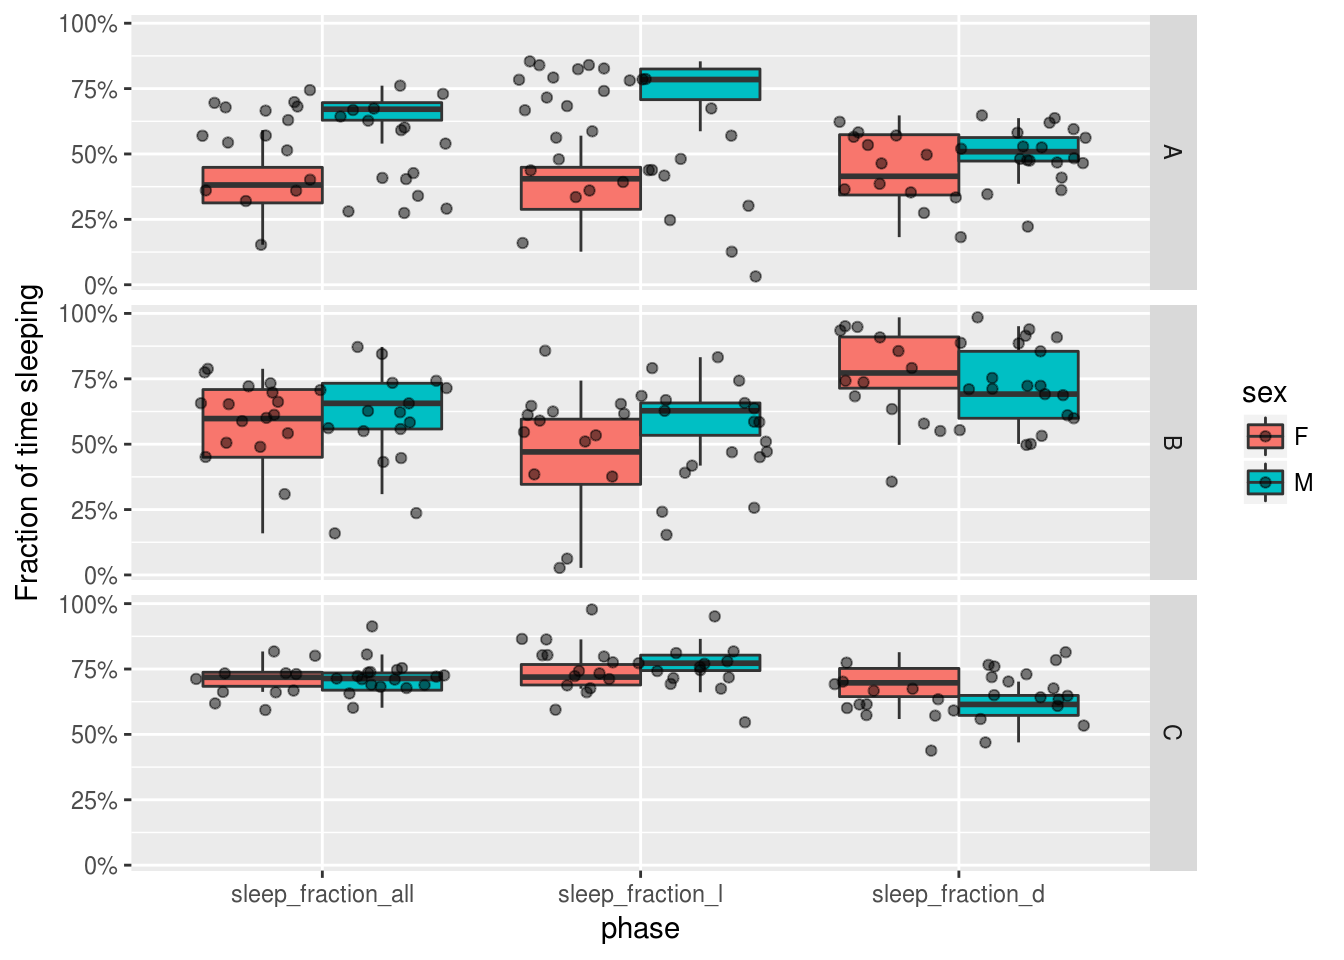
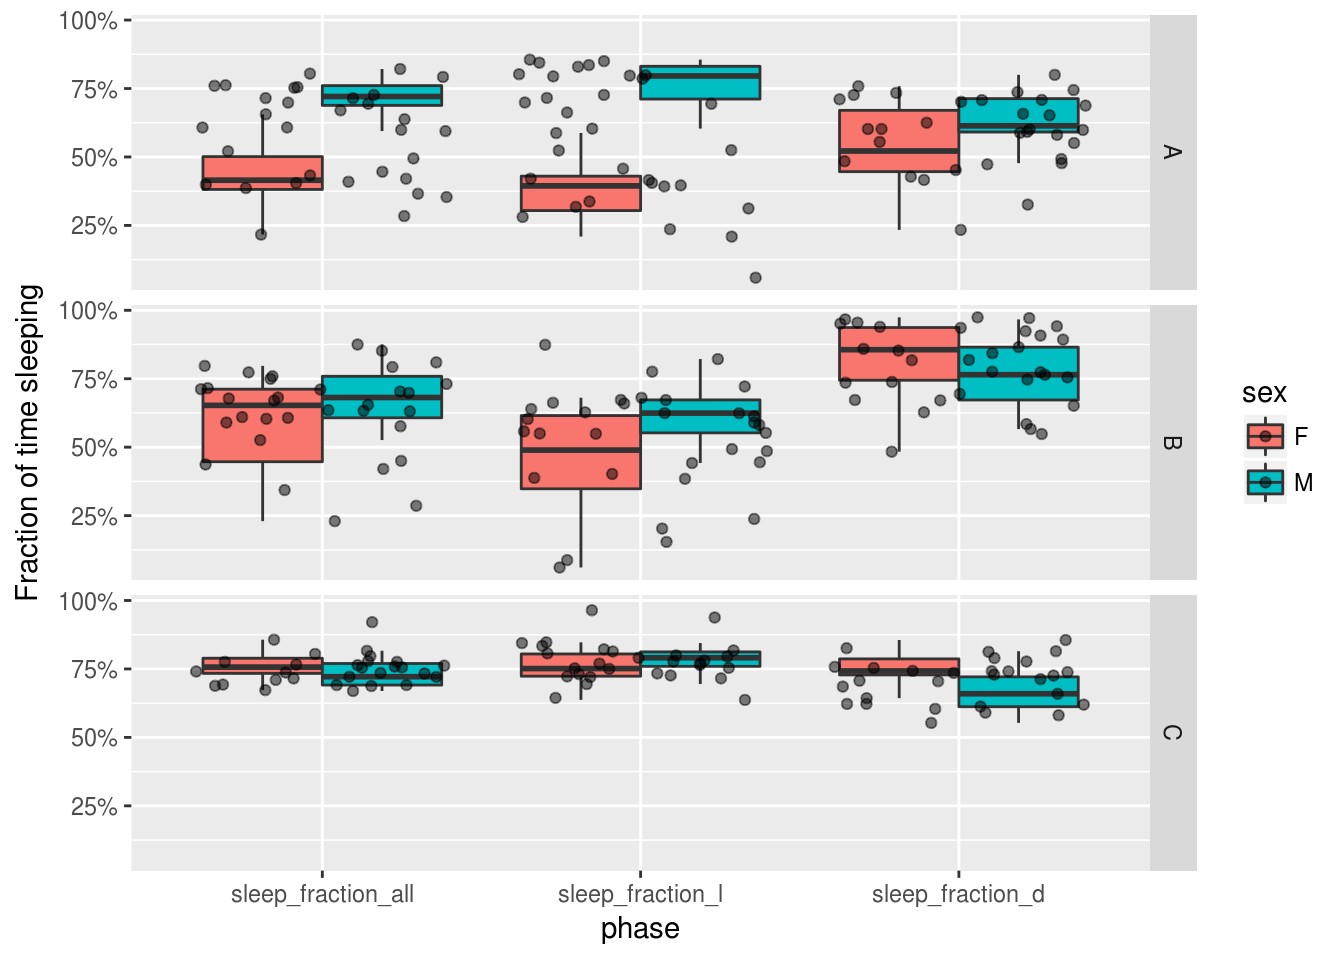
Automatic deployment after 7045d34b0e9099193a25b80bd120778a9fb6d24a [ci skip]

diff --git a/sleepr.html b/sleepr.html
@@ -397,16 +397,17 @@ dt_curated &lt;-<span class="st"> </span>dt_curated[id <span class="op">%in%</sp
 </div>
 <div id="trimming" class="section level3 unnumbered">
 <h3>Trimming</h3>
-<p>Generally, we want to remove point according the experimental time. For instance, we want to remove the begining as animals are acclimatising to their new environment. In general, we could simply do:</p>
-<div class="sourceCode"><pre class="sourceCode r"><code class="sourceCode r">dt_curated &lt;-<span class="st"> </span>dt_curated[t <span class="op">%between%</span><span class="st"> </span><span class="kw">c</span>(<span class="kw">days</span>(<span class="dv">1</span>), <span class="kw">days</span>(<span class="fl">3.5</span>))]
+<p>Generally, we want to remove point according the experimental time. For instance, lets say we would like to keep only the first 60 hours of data (i.e. 2.5 days)</p>
+<div class="sourceCode"><pre class="sourceCode r"><code class="sourceCode r">dt_curated &lt;-<span class="st"> </span>dt_curated[t <span class="op">%between%</span><span class="st"> </span><span class="kw">c</span>(<span class="kw">days</span>(<span class="dv">0</span>), <span class="kw">days</span>(<span class="fl">2.5</span>))]
 <span class="kw">summary</span>(dt_curated)</code></pre></div>
 <pre><code>## behavr table with:
 ##  94  individuals
 ##  8   metavariables
 ##  4   variables
-##  2.19563e+05 measurements
+##  3.38494e+05 measurements
 ##  1   key (id)</code></pre>
-<p>Which means we are only considering data <strong>between</strong> 1 and 3.5 days after the experiment started.</p>
+<p>Which means we are only considering data <strong>between</strong> 0 and 2.5 days.</p>
+<p>The same principle can be used to remove the begining of an experiment. Fon instance when animals are acclimatising to their new environment.</p>
 </div>
 </div>
 <div id="population-plots-1" class="section level2 unnumbered">
@@ -463,17 +464,17 @@ summary_dt</code></pre></div>
 ## 93: 2017-07-01 08:00:00|Monitor64.txt 2017-07-01 08:00:00    2017-07-04
 ## 94: 2017-07-01 08:00:00|Monitor64.txt 2017-07-01 08:00:00    2017-07-04
 ##     sex genotype replicate sleep_fraction
-##  1:   M        A         1      0.6956159
-##  2:   M        A         1      0.6817043
-##  3:   M        A         1      0.7613588
-##  4:   M        A         1      0.6984590
-##  5:   M        A         1      0.7443832
+##  1:   M        A         1      0.7600666
+##  2:   M        A         1      0.7550680
+##  3:   M        A         1      0.8214385
+##  4:   M        A         1      0.7528464
+##  5:   M        A         1      0.8044988
 ## ---                                      
-## 90:   F        C         1      0.7309454
-## 91:   F        C         1      0.5934455
-## 92:   F        C         1      0.7257455
-## 93:   F        C         1      0.7386745
-## 94:   F        C         1      0.9130982</code></pre>
+## 90:   F        C         1      0.7661761
+## 91:   F        C         1      0.6725909
+## 92:   F        C         1      0.7622883
+## 93:   F        C         1      0.7967231
+## 94:   F        C         1      0.9208553</code></pre>
 <p>With <code>rejoin</code>, we have put our summary and metadata together, which is suitable for standars graphics/statictics. For instance, if we are interested in the effect of sleep and genotype on sleep amount, we can make a faceted boxplot, and also add individual points to show all data.</p>
 <div class="sourceCode"><pre class="sourceCode r"><code class="sourceCode r"><span class="kw">ggplot</span>(summary_dt, <span class="kw">aes</span>(<span class="dt">x=</span>sex, <span class="dt">y=</span>sleep_fraction, <span class="dt">fill=</span>sex)) <span class="op">+</span><span class="st"> </span>
 <span class="st">  </span><span class="kw">geom_boxplot</span>(<span class="dt">outlier.colour =</span> <span class="ot">NA</span>) <span class="op">+</span>
@@ -534,29 +535,29 @@ summary_dt</code></pre></div>
 ## 93: 2017-07-01 08:00:00|Monitor64.txt 2017-07-01 08:00:00    2017-07-04
 ## 94: 2017-07-01 08:00:00|Monitor64.txt 2017-07-01 08:00:00    2017-07-04
 ##     sex genotype replicate sleep_fraction_all sleep_fraction_l
-##  1:   M        A         1          0.6956159        0.8270833
-##  2:   M        A         1          0.6817043        0.7854167
-##  3:   M        A         1          0.7613588        0.8402778
-##  4:   M        A         1          0.6984590        0.8541667
-##  5:   M        A         1          0.7443832        0.8395833
+##  1:   M        A         1          0.7600666        0.8500000
+##  2:   M        A         1          0.7550680        0.7861111
+##  3:   M        A         1          0.8214385        0.8356481
+##  4:   M        A         1          0.7528464        0.8555556
+##  5:   M        A         1          0.8044988        0.8444444
 ## ---                                                           
-## 90:   F        C         1          0.7309454        0.7118056
-## 91:   F        C         1          0.5934455        0.5465278
-## 92:   F        C         1          0.7257455        0.7229167
-## 93:   F        C         1          0.7386745        0.7152778
-## 94:   F        C         1          0.9130982        0.9777778
+## 90:   F        C         1          0.7661761        0.7504630
+## 91:   F        C         1          0.6725909        0.6370370
+## 92:   F        C         1          0.7622883        0.7523148
+## 93:   F        C         1          0.7967231        0.7773148
+## 94:   F        C         1          0.9208553        0.9643519
 ##     sleep_fraction_d
-##  1:        0.4973822
-##  2:        0.5251572
-##  3:        0.6371585
-##  4:        0.4651405
-##  5:        0.5952122
+##  1:        0.6252602
+##  2:        0.7085357
+##  3:        0.8001388
+##  4:        0.5988897
+##  5:        0.7446218
 ## ---                 
-## 90:        0.7596254
-## 91:        0.6760391
-## 92:        0.7300744
-## 93:        0.7743644
-## 94:        0.8142251</code></pre>
+## 90:        0.7897294
+## 91:        0.7258848
+## 92:        0.7772380
+## 93:        0.8258154
+## 94:        0.8556558</code></pre>
 <p>Now, we have three new variables: <code>sleep_fraction_all</code>, <code>sleep_fraction_l</code> and <code>sleep_fraction_d</code>. We can just replace the y axis with our variable of interest (e.g. sleep in D phase):</p>
 <div class="sourceCode"><pre class="sourceCode r"><code class="sourceCode r"><span class="kw">ggplot</span>(summary_dt, <span class="kw">aes</span>(<span class="dt">x=</span>sex, <span class="dt">y=</span>sleep_fraction_d, <span class="dt">fill=</span>sex)) <span class="op">+</span><span class="st"> </span>
 <span class="st">  </span><span class="kw">geom_boxplot</span>(<span class="dt">outlier.colour =</span> <span class="ot">NA</span>) <span class="op">+</span>
@@ -584,14 +585,19 @@ summary_dt</code></pre></div>
 <p>Say we wanted to compute, for <strong>females only</strong>, all pairwise tests between all genotype groups (A vs B, B vs C and C vs A). This could be formulated as:</p>
 <div class="sourceCode"><pre class="sourceCode r"><code class="sourceCode r"><span class="kw">pairwise.wilcox.test</span>(summary_dt[sex<span class="op">==</span><span class="st">&quot;F&quot;</span>, sleep_fraction_all], 
                      summary_dt[sex<span class="op">==</span><span class="st">&quot;F&quot;</span>, genotype])</code></pre></div>
+<pre><code>## Warning in wilcox.test.default(xi, xj, paired = paired, ...): cannot
+## compute exact p-value with ties
+
+## Warning in wilcox.test.default(xi, xj, paired = paired, ...): cannot
+## compute exact p-value with ties</code></pre>
 <pre><code>## 
 ##  Pairwise comparisons using Wilcoxon rank sum test 
 ## 
 ## data:  summary_dt[sex == &quot;F&quot;, sleep_fraction_all] and summary_dt[sex == &quot;F&quot;, genotype] 
 ## 
 ##   A       B     
-## B 0.0045  -     
-## C 4.1e-08 0.0045
+## B 0.0047  -     
+## C 4.1e-08 0.0018
 ## 
 ## P value adjustment method: holm</code></pre>
 <p>We get a matrix showing us all p-values. You could do that also within males, as long as we replace <code>sex == &quot;F&quot;</code> by <code>sex == &quot;M&quot;</code></p>
@@ -602,10 +608,10 @@ summary_dt</code></pre></div>
 <div class="sourceCode"><pre class="sourceCode r"><code class="sourceCode r">model &lt;-<span class="st"> </span><span class="kw">aov</span>(sleep_fraction_all <span class="op">~</span><span class="st"> </span>sex <span class="op">*</span><span class="st"> </span>genotype, summary_dt)
 <span class="kw">summary</span>(model)</code></pre></div>
 <pre><code>##              Df Sum Sq Mean Sq F value   Pr(&gt;F)    
-## sex           1 0.3122 0.31222   23.46 5.42e-06 ***
-## genotype      2 0.5328 0.26638   20.02 6.83e-08 ***
-## sex:genotype  2 0.3496 0.17478   13.13 1.02e-05 ***
-## Residuals    88 1.1710 0.01331                     
+## sex           1 0.3235  0.3235   26.39 1.66e-06 ***
+## genotype      2 0.4417  0.2209   18.02 2.76e-07 ***
+## sex:genotype  2 0.3874  0.1937   15.80 1.37e-06 ***
+## Residuals    88 1.0786  0.0123                     
 ## ---
 ## Signif. codes:  0 &#39;***&#39; 0.001 &#39;**&#39; 0.01 &#39;*&#39; 0.05 &#39;.&#39; 0.1 &#39; &#39; 1</code></pre>
 <p>This shows a strong affect of sex, genotype and their interaction on sleep amount. There are several way to follow up. For instance see this <a href="https://www.r-bloggers.com/two-way-analysis-of-variance-anova/">short tutorial</a>.</p>
@@ -689,16 +695,16 @@ summary_dt</code></pre></div>
 ## 
 ##                                       id n_bouts mean_bout_length
 ##                                   &lt;fctr&gt;   &lt;int&gt;            &lt;num&gt;
-##  1: 2017-07-01 08:00:00|Monitor11.txt|01      56         1785.000
-##  2: 2017-07-01 08:00:00|Monitor11.txt|02      69         1419.130
-##  3: 2017-07-01 08:00:00|Monitor11.txt|03      58         1854.828
-##  4: 2017-07-01 08:00:00|Monitor11.txt|04      65         1548.000
+##  1: 2017-07-01 08:00:00|Monitor11.txt|01      80         2052.000
+##  2: 2017-07-01 08:00:00|Monitor11.txt|02     109         1496.147
+##  3: 2017-07-01 08:00:00|Monitor11.txt|03      97         1829.072
+##  4: 2017-07-01 08:00:00|Monitor11.txt|04      95         1711.579
 ## ---                                                              
-## 90: 2017-07-01 08:00:00|Monitor64.txt|27      53         1986.792
-## 91: 2017-07-01 08:00:00|Monitor64.txt|29     100          804.000
-## 92: 2017-07-01 08:00:00|Monitor64.txt|30      66         1570.909
-## 93: 2017-07-01 08:00:00|Monitor64.txt|31      39         2709.231
-## 94: 2017-07-01 08:00:00|Monitor64.txt|32      19         6868.421</code></pre>
+## 90: 2017-07-01 08:00:00|Monitor64.txt|27      75         2206.400
+## 91: 2017-07-01 08:00:00|Monitor64.txt|29     142         1023.380
+## 92: 2017-07-01 08:00:00|Monitor64.txt|30      99         1663.636
+## 93: 2017-07-01 08:00:00|Monitor64.txt|31      67         2568.358
+## 94: 2017-07-01 08:00:00|Monitor64.txt|32      36         5525.000</code></pre>
 <p>You could apply the approach presented before to compute statistics according the the phase (night vs day bouts).</p>
 </div>
 <div id="latency-to-sleep" class="section level3 unnumbered">
@@ -727,11 +733,11 @@ bout_summary</code></pre></div>
 ##  3: 2017-07-01 08:00:00|Monitor11.txt|03    &lt;list&gt;         3
 ##  4: 2017-07-01 08:00:00|Monitor11.txt|04    &lt;list&gt;         4
 ## ---                                                         
-## 90: 2017-07-01 08:00:00|Monitor64.txt|27    &lt;list&gt;        27
-## 91: 2017-07-01 08:00:00|Monitor64.txt|29    &lt;list&gt;        29
-## 92: 2017-07-01 08:00:00|Monitor64.txt|30    &lt;list&gt;        30
-## 93: 2017-07-01 08:00:00|Monitor64.txt|31    &lt;list&gt;        31
-## 94: 2017-07-01 08:00:00|Monitor64.txt|32    &lt;list&gt;        32
+## 89: 2017-07-01 08:00:00|Monitor64.txt|27    &lt;list&gt;        27
+## 90: 2017-07-01 08:00:00|Monitor64.txt|29    &lt;list&gt;        29
+## 91: 2017-07-01 08:00:00|Monitor64.txt|30    &lt;list&gt;        30
+## 92: 2017-07-01 08:00:00|Monitor64.txt|31    &lt;list&gt;        31
+## 93: 2017-07-01 08:00:00|Monitor64.txt|32    &lt;list&gt;        32
 ##                         experiment_id      start_datetime stop_datetime
 ##                                &lt;char&gt;              &lt;POSc&gt;        &lt;char&gt;
 ##  1: 2017-07-01 08:00:00|Monitor11.txt 2017-07-01 08:00:00    2017-07-04
@@ -739,11 +745,11 @@ bout_summary</code></pre></div>
 ##  3: 2017-07-01 08:00:00|Monitor11.txt 2017-07-01 08:00:00    2017-07-04
 ##  4: 2017-07-01 08:00:00|Monitor11.txt 2017-07-01 08:00:00    2017-07-04
 ## ---                                                                    
+## 89: 2017-07-01 08:00:00|Monitor64.txt 2017-07-01 08:00:00    2017-07-04
 ## 90: 2017-07-01 08:00:00|Monitor64.txt 2017-07-01 08:00:00    2017-07-04
 ## 91: 2017-07-01 08:00:00|Monitor64.txt 2017-07-01 08:00:00    2017-07-04
 ## 92: 2017-07-01 08:00:00|Monitor64.txt 2017-07-01 08:00:00    2017-07-04
 ## 93: 2017-07-01 08:00:00|Monitor64.txt 2017-07-01 08:00:00    2017-07-04
-## 94: 2017-07-01 08:00:00|Monitor64.txt 2017-07-01 08:00:00    2017-07-04
 ##        sex genotype replicate
 ##     &lt;char&gt;   &lt;char&gt;     &lt;int&gt;
 ##  1:      M        A         1
@@ -751,38 +757,38 @@ bout_summary</code></pre></div>
 ##  3:      M        A         1
 ##  4:      M        A         1
 ## ---                          
+## 89:      F        C         1
 ## 90:      F        C         1
 ## 91:      F        C         1
 ## 92:      F        C         1
 ## 93:      F        C         1
-## 94:      F        C         1
 ## 
 ##  ====== DATA ======
 ## 
 ##                                       id latency first_bout_length
 ##                                   &lt;fctr&gt;   &lt;num&gt;             &lt;num&gt;
-##  1: 2017-07-01 08:00:00|Monitor11.txt|01       0              1560
-##  2: 2017-07-01 08:00:00|Monitor11.txt|02       0              1020
-##  3: 2017-07-01 08:00:00|Monitor11.txt|03       0              1200
-##  4: 2017-07-01 08:00:00|Monitor11.txt|04       0               960
+##  1: 2017-07-01 08:00:00|Monitor11.txt|01    2940               360
+##  2: 2017-07-01 08:00:00|Monitor11.txt|02    3540               420
+##  3: 2017-07-01 08:00:00|Monitor11.txt|03    4500               300
+##  4: 2017-07-01 08:00:00|Monitor11.txt|04    1080               720
 ## ---                                                               
-## 90: 2017-07-01 08:00:00|Monitor64.txt|27       0              1140
-## 91: 2017-07-01 08:00:00|Monitor64.txt|29     900               540
-## 92: 2017-07-01 08:00:00|Monitor64.txt|30       0              1020
-## 93: 2017-07-01 08:00:00|Monitor64.txt|31       0              1200
-## 94: 2017-07-01 08:00:00|Monitor64.txt|32       0              1140
+## 89: 2017-07-01 08:00:00|Monitor64.txt|27    6120               300
+## 90: 2017-07-01 08:00:00|Monitor64.txt|29     900               540
+## 91: 2017-07-01 08:00:00|Monitor64.txt|30    2100               300
+## 92: 2017-07-01 08:00:00|Monitor64.txt|31    4380               420
+## 93: 2017-07-01 08:00:00|Monitor64.txt|32    2160              5640
 ##     latency_to_longest_bout length_longest_bout n_bouts mean_bout_length
 ##                       &lt;num&gt;               &lt;num&gt;   &lt;int&gt;            &lt;num&gt;
-##  1:                   27000                3300      26        1398.4615
-##  2:                   17760                6300      24        1450.0000
-##  3:                   37920                3600      30        1204.0000
-##  4:                   30600                6240      29        1336.5517
+##  1:                   27000                3300      25        1392.0000
+##  2:                   17760                6300      23        1468.6957
+##  3:                   37920                3600      29        1204.1379
+##  4:                   30600                6240      28        1350.0000
 ## ---                                                                     
-## 90:                   14160                6720      20        1767.0000
-## 91:                   11400                1980      42         625.7143
-## 92:                   35820                4560      26        1317.6923
-## 93:                   21360               14760      20        1641.0000
-## 94:                   26820               15360       7        5897.1429</code></pre>
+## 89:                   14160                6720      19        1800.0000
+## 90:                   11400                1980      42         625.7143
+## 91:                   35820                4560      25        1329.6000
+## 92:                   21360               14760      19        1664.2105
+## 93:                   26820               15360       6        6690.0000</code></pre>
 <p>For good measures, I also added number of bout and average bout length as we have seen before. You can of course use these result to plot things like the relationship between bout length and bout number:</p>
 <div class="sourceCode"><pre class="sourceCode r"><code class="sourceCode r"><span class="kw">ggplot</span>(<span class="kw">rejoin</span>(bout_summary), <span class="kw">aes</span>(n_bouts, mean_bout_length, <span class="dt">colour=</span>sex)) <span class="op">+</span>
 <span class="st">    </span><span class="kw">geom_point</span>() <span class="op">+</span>
@@ -805,11 +811,11 @@ overall_summary</code></pre></div>
 ##  4: 2017-07-01 08:00:00|Monitor11.txt|04    &lt;list&gt;         4
 ##  5: 2017-07-01 08:00:00|Monitor11.txt|05    &lt;list&gt;         5
 ## ---                                                         
-## 90: 2017-07-01 08:00:00|Monitor64.txt|27    &lt;list&gt;        27
-## 91: 2017-07-01 08:00:00|Monitor64.txt|29    &lt;list&gt;        29
-## 92: 2017-07-01 08:00:00|Monitor64.txt|30    &lt;list&gt;        30
-## 93: 2017-07-01 08:00:00|Monitor64.txt|31    &lt;list&gt;        31
-## 94: 2017-07-01 08:00:00|Monitor64.txt|32    &lt;list&gt;        32
+## 89: 2017-07-01 08:00:00|Monitor64.txt|27    &lt;list&gt;        27
+## 90: 2017-07-01 08:00:00|Monitor64.txt|29    &lt;list&gt;        29
+## 91: 2017-07-01 08:00:00|Monitor64.txt|30    &lt;list&gt;        30
+## 92: 2017-07-01 08:00:00|Monitor64.txt|31    &lt;list&gt;        31
+## 93: 2017-07-01 08:00:00|Monitor64.txt|32    &lt;list&gt;        32
 ##                         experiment_id      start_datetime stop_datetime
 ##  1: 2017-07-01 08:00:00|Monitor11.txt 2017-07-01 08:00:00    2017-07-04
 ##  2: 2017-07-01 08:00:00|Monitor11.txt 2017-07-01 08:00:00    2017-07-04
@@ -817,47 +823,47 @@ overall_summary</code></pre></div>
 ##  4: 2017-07-01 08:00:00|Monitor11.txt 2017-07-01 08:00:00    2017-07-04
 ##  5: 2017-07-01 08:00:00|Monitor11.txt 2017-07-01 08:00:00    2017-07-04
 ## ---                                                                    
+## 89: 2017-07-01 08:00:00|Monitor64.txt 2017-07-01 08:00:00    2017-07-04
 ## 90: 2017-07-01 08:00:00|Monitor64.txt 2017-07-01 08:00:00    2017-07-04
 ## 91: 2017-07-01 08:00:00|Monitor64.txt 2017-07-01 08:00:00    2017-07-04
 ## 92: 2017-07-01 08:00:00|Monitor64.txt 2017-07-01 08:00:00    2017-07-04
 ## 93: 2017-07-01 08:00:00|Monitor64.txt 2017-07-01 08:00:00    2017-07-04
-## 94: 2017-07-01 08:00:00|Monitor64.txt 2017-07-01 08:00:00    2017-07-04
 ##     sex genotype replicate sleep_fraction_all sleep_fraction_l
-##  1:   M        A         1          0.6956159        0.8270833
-##  2:   M        A         1          0.6817043        0.7854167
-##  3:   M        A         1          0.7613588        0.8402778
-##  4:   M        A         1          0.6984590        0.8541667
-##  5:   M        A         1          0.7443832        0.8395833
+##  1:   M        A         1          0.7600666        0.8500000
+##  2:   M        A         1          0.7550680        0.7861111
+##  3:   M        A         1          0.8214385        0.8356481
+##  4:   M        A         1          0.7528464        0.8555556
+##  5:   M        A         1          0.8044988        0.8444444
 ## ---                                                           
-## 90:   F        C         1          0.7309454        0.7118056
-## 91:   F        C         1          0.5934455        0.5465278
-## 92:   F        C         1          0.7257455        0.7229167
-## 93:   F        C         1          0.7386745        0.7152778
-## 94:   F        C         1          0.9130982        0.9777778
+## 89:   F        C         1          0.7661761        0.7504630
+## 90:   F        C         1          0.6725909        0.6370370
+## 91:   F        C         1          0.7622883        0.7523148
+## 92:   F        C         1          0.7967231        0.7773148
+## 93:   F        C         1          0.9208553        0.9643519
 ##     sleep_fraction_d latency first_bout_length latency_to_longest_bout
-##  1:        0.4973822       0              1560                   27000
-##  2:        0.5251572       0              1020                   17760
-##  3:        0.6371585       0              1200                   37920
-##  4:        0.4651405       0               960                   30600
-##  5:        0.5952122       0               960                   14820
+##  1:        0.6252602    2940               360                   27000
+##  2:        0.7085357    3540               420                   17760
+##  3:        0.8001388    4500               300                   37920
+##  4:        0.5988897    1080               720                   30600
+##  5:        0.7446218    2760               300                   14820
 ## ---                                                                   
-## 90:        0.7596254       0              1140                   14160
-## 91:        0.6760391     900               540                   11400
-## 92:        0.7300744       0              1020                   35820
-## 93:        0.7743644       0              1200                   21360
-## 94:        0.8142251       0              1140                   26820
+## 89:        0.7897294    6120               300                   14160
+## 90:        0.7258848     900               540                   11400
+## 91:        0.7772380    2100               300                   35820
+## 92:        0.8258154    4380               420                   21360
+## 93:        0.8556558    2160              5640                   26820
 ##     length_longest_bout n_bouts mean_bout_length
-##  1:                3300      26        1398.4615
-##  2:                6300      24        1450.0000
-##  3:                3600      30        1204.0000
-##  4:                6240      29        1336.5517
-##  5:                5880      16        2441.2500
+##  1:                3300      25        1392.0000
+##  2:                6300      23        1468.6957
+##  3:                3600      29        1204.1379
+##  4:                6240      28        1350.0000
+##  5:                5880      15        2540.0000
 ## ---                                             
-## 90:                6720      20        1767.0000
-## 91:                1980      42         625.7143
-## 92:                4560      26        1317.6923
-## 93:               14760      20        1641.0000
-## 94:               15360       7        5897.1429</code></pre>
+## 89:                6720      19        1800.0000
+## 90:                1980      42         625.7143
+## 91:                4560      25        1329.6000
+## 92:               14760      19        1664.2105
+## 93:               15360       6        6690.0000</code></pre>
 <div class="sourceCode"><pre class="sourceCode r"><code class="sourceCode r"><span class="kw">ggplot</span>(overall_summary, <span class="kw">aes</span>(latency <span class="op">/</span><span class="st"> </span><span class="dv">60</span>, sleep_fraction_l, <span class="dt">colour=</span>sex)) <span class="op">+</span>
 <span class="st">    </span><span class="kw">geom_point</span>() <span class="op">+</span>
 <span class="st">    </span><span class="kw">geom_smooth</span>(<span class="dt">method=</span><span class="st">&quot;lm&quot;</span>, <span class="dt">alpha=</span>.<span class="dv">1</span>)<span class="op">+</span>

diff --git a/scopr.html b/scopr.html
@@ -704,7 +704,7 @@ dt &lt;-<span class="st"> </span><span class="kw">load_ethoscope</span>(metadata
                        <span class="dt">verbose=</span><span class="ot">FALSE</span>)
 )</code></pre></div>
 <pre><code>##    user  system elapsed 
-## 156.149   3.452 158.689</code></pre>
+## 183.328   5.072 188.560</code></pre>
 <p>However, the next time, we do the same thing way faster:</p>
 <div class="sourceCode"><pre class="sourceCode r"><code class="sourceCode r"><span class="kw">system.time</span>(
   dt &lt;-<span class="st"> </span><span class="kw">load_ethoscope</span>(metadata,
@@ -714,7 +714,7 @@ dt &lt;-<span class="st"> </span><span class="kw">load_ethoscope</span>(metadata
                        <span class="dt">verbose=</span><span class="ot">FALSE</span>)
 )</code></pre></div>
 <pre><code>##    user  system elapsed 
-##   1.903   0.056   1.917</code></pre>
+##   2.300   0.051   2.397</code></pre>
 <p>Here, we set <code>cache</code> to <code>&quot;ethoscope_cache&quot;</code>. This creates a new directory called <code>&quot;ethoscope_cache&quot;</code> (you can pick the name and location you want). If you to do a bit of tidying up, you can remove it without risk (it will just take time next time you load your data).</p>
 </div>
 </div>
